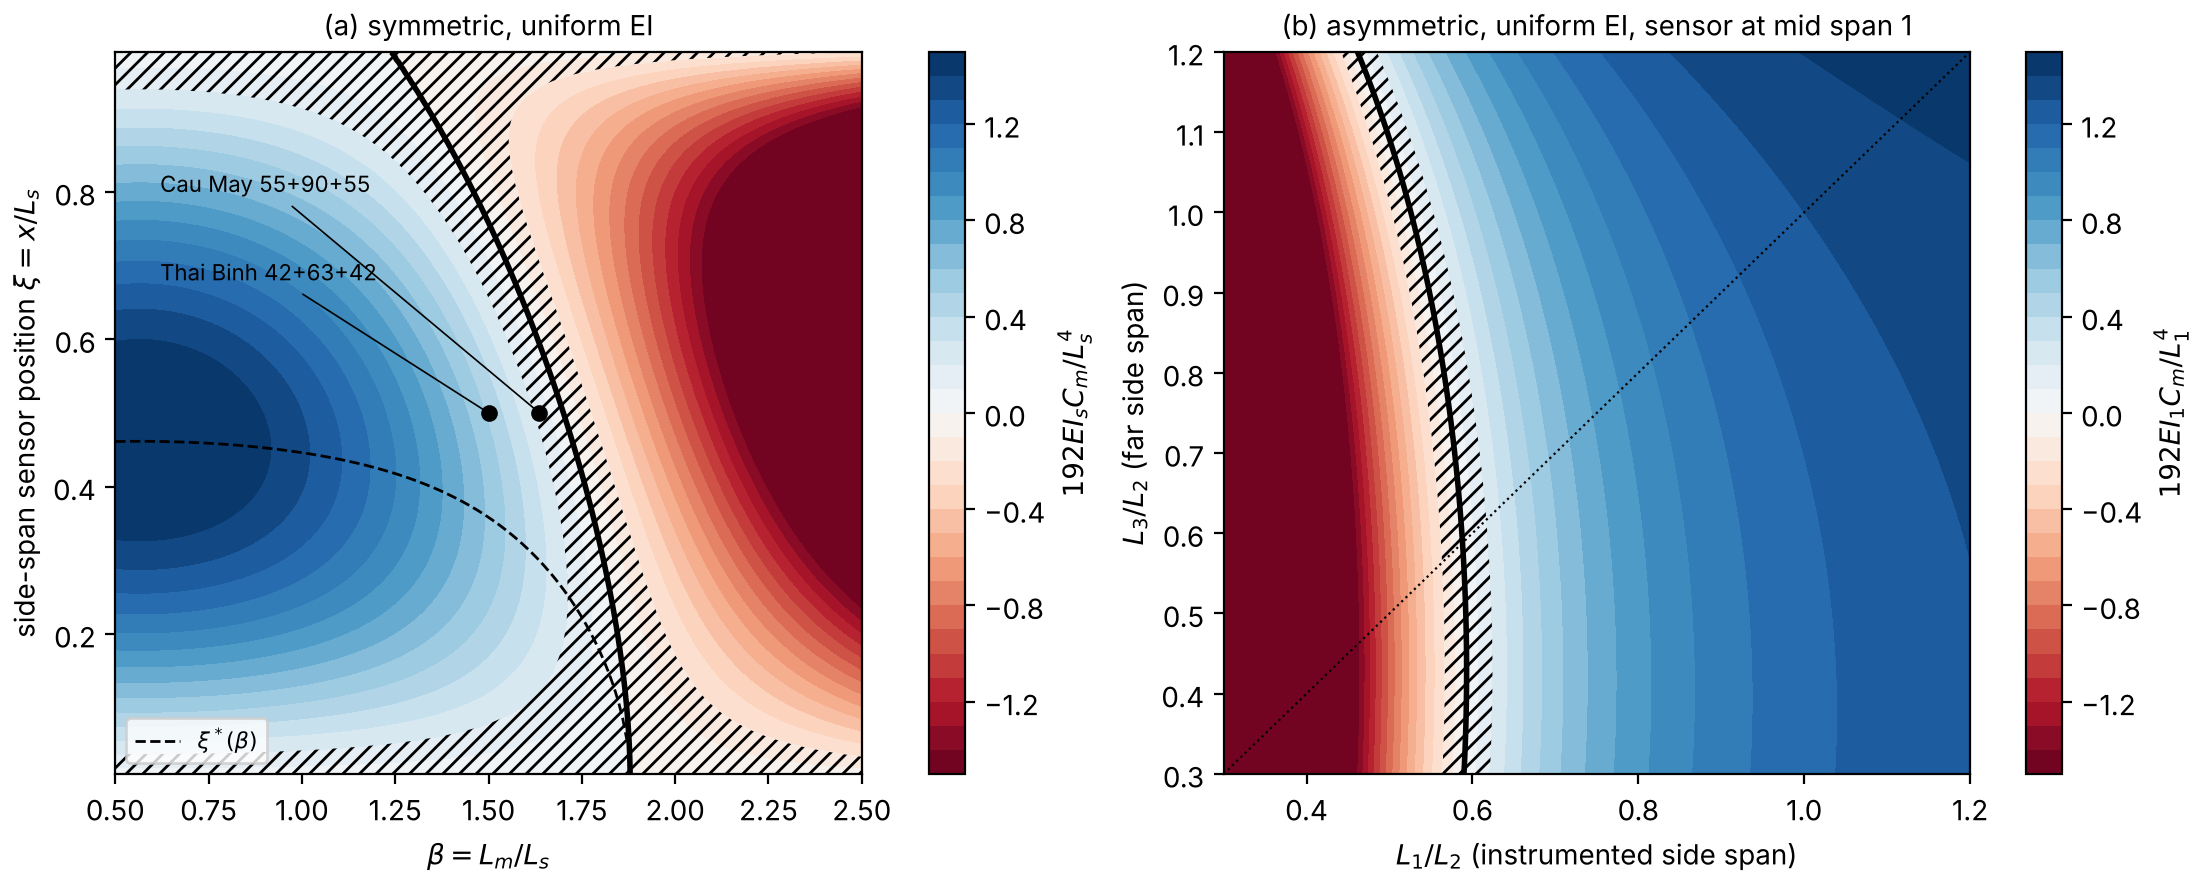
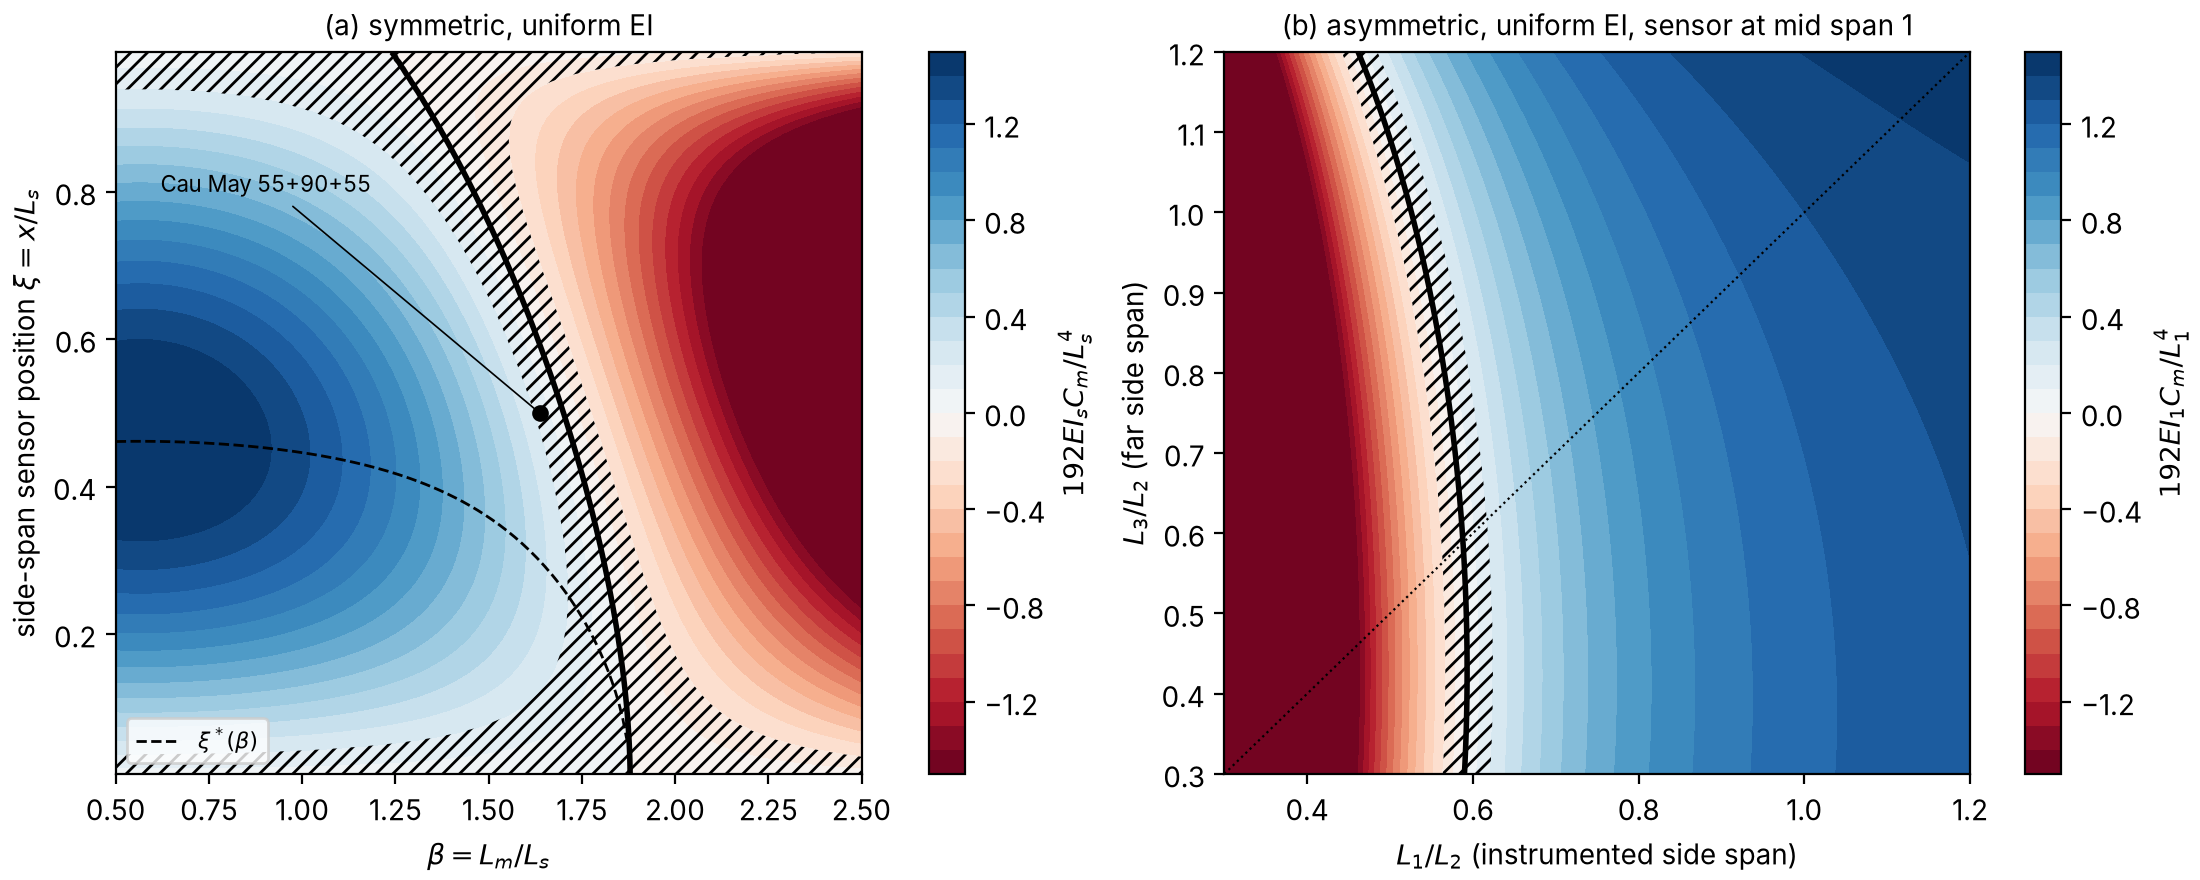
WIP: scripts.zip cleanup in progress
Claude-Session: https://claude.ai/code/session_01B18ehnY6ZEjmwZNzrTta57

diff --git a/code/analysis/verify_3span.py b/code/analysis/verify_3span.py
@@ -64,7 +64,7 @@ for beta, rho in [(1.0, 1.0), (1.5, 1.0), (90 / 55, 1.0), (1.2, 2.0), (1.8, 0.7)
 
 print("\n Dimensional bridges (uniform EI = 1, metres; 12 elements/span: prismatic Hermite"
       " elements are nodally exact, finer meshes only add round-off):")
-for name, spans in [("Cau May 55+90+55", [55, 90, 55]), ("Thai Binh 42+63+42", [42, 63, 42])]:
+for name, spans in [("Cau May 55+90+55", [55, 90, 55])]:
     b = spans[1] / spans[0]
     check(f"{name} mid side", th.side_norm(0.5, b), fe_norm(spans, spans[0] / 2, spans[0], 1.0))
     check(f"{name} mid main", th.main_norm(0.5, b),
@@ -116,9 +116,9 @@ contrib_main = [sp.lambdify((th.eta, b_, r_), th.main_contrib(j)) for j in range
 print(f"  {'case':34s} {'C1':>10s} {'C2':>10s} {'C3':>10s} {'sum':>10s} {'neg/pos':>9s}")
 for name, beta, rho, where, pos in [
         ("two-span-like beta=1 side", 1.0, 1.0, "side", 0.5),
-        ("Thai Binh side (beta=1.5)", 1.5, 1.0, "side", 0.5),
+        ("side (beta=1.5)", 1.5, 1.0, "side", 0.5),
         ("Cau May side (beta=1.636)", 90 / 55, 1.0, "side", 0.5),
-        ("Thai Binh main (beta=1.5)", 1.5, 1.0, "main", 0.5),
+        ("main (beta=1.5)", 1.5, 1.0, "main", 0.5),
         ("Cau May main (beta=1.636)", 90 / 55, 1.0, "main", 0.5)]:
     spans, EIs = [1, beta, 1], [1, rho, 1]
     cs, fes = [], []
@@ -291,14 +291,12 @@ def haunch_table(name, spans, ratios, lc_list, hm=1.0):
 
 rows_cm = haunch_table("Cau May (h 2.4 m mid-span, 5.4 m pier)", [55, 90, 55],
                        [5.4 / 2.4], [None, 55.0, 30.0], hm=2.4)
-rows_tb = haunch_table("Thai Binh (depths NOT available: parametrised by h_pier/h_mid)",
-                       [42, 63, 42], [1.0, 1.5, 2.0, 2.25, 2.5, 3.0], [None])
 
 os.makedirs(os.path.join(os.path.dirname(os.path.abspath(__file__)), "data"), exist_ok=True)
 with open(os.path.join(os.path.dirname(os.path.abspath(__file__)), "data", "haunch_3span.csv"), "w") as fh:
     fh.write("bridge,h_ratio,n,Lc_side_m,side_mid,shift_vs_uniform,side_negpos,xi_star,"
              "Cm_xi_star,main_mid,main_negpos\n")
-    for nm, rows in [("CauMay", rows_cm), ("ThaiBinh", rows_tb)]:
+    for nm, rows in [("CauMay", rows_cm)]:
         for r in rows:
             fh.write(nm + "," + ",".join(f"{v:.6f}" for v in r) + "\n")
 

diff --git a/code/fieldplan/fieldplan_compute.py b/code/fieldplan/fieldplan_compute.py
@@ -48,9 +48,9 @@ g = 9.81
 # Axle loads are ILLUSTRATIVE splits of the gross mass; the real values come
 # from the per-axle weighbridge tickets on the test day.
 TRUCKS = {
-    # T1 = same type as the 2020 acceptance trucks (report Hinh 2.1): 5+10+10 t
+    # T1 = same type as the 2020 acceptance trucks (report Fig. 2.1): 5+10+10 t
     "T1 (3 truc, 25 t)": dict(P=np.array([5.0, 10.0, 10.0]), a=np.array([0.0, 3.60, 4.95])),
-    # T2 = 4-axle (Thai Binh type 1.80+3.00+1.35 m) loaded to ~25 t: same total, other axles
+    # T2 = 4-axle (spacings 1.80+3.00+1.35 m) loaded to ~25 t: same total, other axles
     "T2 (4 truc, 25 t)": dict(P=np.array([5.5, 5.5, 7.0, 7.0]), a=np.array([0.0, 1.80, 4.80, 6.15])),
     # T3 = same 4-axle truck fully loaded, ~30 t: different total
     "T3 (4 truc, 30 t)": dict(P=np.array([6.0, 6.0, 9.0, 9.0]), a=np.array([0.0, 1.80, 4.80, 6.15])),
@@ -158,7 +158,7 @@ P1, P2 = 55.0, 145.0
 A_MID, A_PIER = 7.233, 14.437                 # m2, LRFR p.5
 ZC_MID, ZC_PIER = 1.572, 3.053                # soffit to centroid, LRFR p.5
 RHO = 2.55                                    # t/m3 (25 kN/m3) [assumption]
-M_SDL = 3.0                                   # t/m superimposed dead load [ASSUMPTION, NEED VALUE]
+M_SDL = 3.0                                   # t/m superimposed dead load [assumption, not given in the test report]
 
 
 def h_cm(x):

diff --git a/code/analysis/cm_3span_theory.py b/code/analysis/cm_3span_theory.py
@@ -189,7 +189,7 @@ def make_maps():
     xo = np.array([xi_opt(b) for b in B])
     ok = xo[:, 1] > 0                                 # optimum only where C_m > 0
     ax[0].plot(B[ok], xo[ok, 0], "k--", lw=1, label=r"$\xi^*(\beta)$")
-    for nm, b in [("Cau May 55+90+55", 90 / 55), ("Thai Binh 42+63+42", 63 / 42)]:
+    for nm, b in [("Cau May 55+90+55", 90 / 55)]:
         ax[0].plot(b, 0.5, "ko", ms=5)
         ax[0].annotate(nm, (b, 0.5), (0.62, 0.80) if b > 1.6 else (0.62, 0.68),
                        fontsize=8, arrowprops=dict(arrowstyle="-", lw=0.6))
@@ -254,7 +254,7 @@ if __name__ == "__main__":
           " check:", sp.N((2 * sp.cos(sp.pi / 9))**3 - 3 * 2 * sp.cos(sp.pi / 9) - 1, 5))
     nb = [r for r in sp.Poly(30 * b**3 - 69 * b - 16, b).nroots(n=15) if r.is_real and r > 0]
     print("Near-blind edge |N|=0.2, mid side, uniform EI: mu = 23/15 <=> 30 b^3 - 69 b - 16 = 0 ->", nb)
-    for nm, bb in [("Cau May", sp.Rational(90, 55)), ("Thai Binh", sp.Rational(63, 42))]:
+    for nm, bb in [("Cau May", sp.Rational(90, 55))]:
         print(f"  {nm}: beta={float(bb):.6f}  rho_crit(mid side)={float(3*bb*(2*bb**2-5)/4):.6f}"
               f"  neg/pos(mid side, uniform)={float(6*bb**3/(15*bb+4)):.6f}")
     print("\nOptimal side-span sensor: d/dxi F = 0  <=>",

diff --git a/code/theory2/ident_fisher.py b/code/theory2/ident_fisher.py
@@ -18,7 +18,7 @@ from ident_static import KAPPA, K_FE
 
 SIG_STATIC = None          # taken from ident_static (total per-gauge sigma = tau_rec/2)
 SIG_F = 0.033              # sd of N6/N7/N8 measured frequencies (ident_freq.log)
-SIG_ROT = 0.03             # [NEED VALUE] tiltmeter, assumed 3 % of a ~1e-4 rad reading
+SIG_ROT = 0.03             # assumed tiltmeter accuracy, 3 % of a ~1e-4 rad reading
 
 
 def responses(m, k, sch):
@@ -45,7 +45,7 @@ def main():
     FQ = np.load(os.path.join(LOGD, "ident_freq_curves.npz"))
     kap = FQ["kap"]
     lnf = {i: np.log(FQ["f_base"][:, i]) for i in range(3)}
-    log(f"sigmas: static per gauge {100*sig_s:.2f} % (tau_rec/2), frequency {100*SIG_F:.1f} %, rotation {100*SIG_ROT:.1f} % [NEED VALUE]")
+    log(f"sigmas: static per gauge {100*sig_s:.2f} % (tau_rec/2), frequency {100*SIG_F:.1f} %, rotation {100*SIG_ROT:.1f} % (assumed)")
     gl = np.log(np.array([0.889 / 1.2, 1.082]))
     sig_g_wide = (gl[1] - gl[0]) / np.sqrt(12)
     log(f"prior on ln gamma': uniform over [{gl[0]:.3f},{gl[1]:.3f}] (mass low..high, e_d 1.0..1.2) -> sd {sig_g_wide:.3f};"

diff --git a/code/theory2/ident_static.py b/code/theory2/ident_static.py
@@ -182,18 +182,6 @@ def main():
         log(f"{lab:8s}: pinned {min(pin):.3f}..{max(pin):.3f} (Lv44 {pin[1]:.3f}); fixed {min(fix):.3f}..{max(fix):.3f} "
             f"(Lv44 {fix[1]:.3f})")
 
-    # illustrative pier stiffness bracket (NOT sourced: pier drawings [NEED VALUE])
-    log("\n=== Illustrative pier rotational stiffness bracket (pier geometry [NEED VALUE]) ===")
-    Ep = 30e6
-    ks = []
-    for b in (6.0, 9.0):
-        for t in (1.8, 2.5):
-            for H in (8.0, 15.0):
-                for c in (1.0, 4.0):
-                    ks.append(c * Ep * b * t**3 / 12 / H)
-    log(f"k = c E_p b t^3/(12 H), E_p 30 GPa, b 6-9 m, t 1.8-2.5 m, H 8-15 m, c 1 (sway) - 4 (no sway, rigid base):"
-        f" k in [{min(ks):.2e}, {max(ks):.2e}] kNm/rad (foundation flexibility would lower it)")
-
     np.savez(os.path.join(LOGD, "ident_static_scan.npz"), kappa=KAPPA, tau_rec=tau_rec,
              **{f"{n}__{k}": v for n, s in scans.items() for k, v in s.items() if k != "kappa"})
 

diff --git a/code/theory2/ident_freq.py b/code/theory2/ident_freq.py
@@ -28,7 +28,7 @@ ED = (1.0, 1.2)            # E_dyn/E_static bracket (see doc, assumption D2)
 
 def main():
     log = Logger("ident_freq.log")
-    log("=== Measured vertical frequencies (CSV, PDF Bang 2.15) ===")
+    log("=== Measured vertical frequencies (CSV, acceptance-test report, Table 2.15) ===")
     log(", ".join(f"{k} {v:.2f} Hz" for k, v in F_MEAS.items()))
     log(f"main bridge N6/N7/N8: mean {F_MAIN.mean():.3f} Hz, sd {F_MAIN.std(ddof=1):.3f} Hz "
         f"({100*F_MAIN.std(ddof=1)/F_MAIN.mean():.1f} %), band [{F_MAIN.min():.2f}, {F_MAIN.max():.2f}]")

diff --git a/code/theory2/ident_core.py b/code/theory2/ident_core.py
@@ -67,8 +67,8 @@ MASS_CASES = {
 }
 RHO_AS = 2.25        # t/m3 bituminous wearing surface (AASHTO LRFD Tab. 3.5.1-1)
 W_CARR = 11.0        # m, 12.0 m deck minus 2 x 0.5 m kerbs (INVENTORY sec.1)
-L_DIAPH_PIER = 3.0   # m, [NEED VALUE] assumed diaphragm length over T6/T7
-L_DIAPH_END = 2.0    # m, [NEED VALUE] assumed end-diaphragm length at T5/T8
+L_DIAPH_PIER = 3.0   # m, assumed diaphragm length over T6/T7 (not given in the test report)
+L_DIAPH_END = 2.0    # m, assumed end-diaphragm length at T5/T8 (not given in the test report)
 
 
 def area_law(h, law):

diff --git a/code/analysis/wp4_dynamic_records.py b/code/analysis/wp4_dynamic_records.py
@@ -3,7 +3,7 @@ quasi-static integral.  Run from the repo root:  python3 code/analysis/wp4_dynam
 
 Sign convention: records are deflection y (mm, downward negative).  Everything below is
 done on s = -y (downward positive), so the integral of a crossing is positive.
-Truck weight, speed, lane and girder for these runs are NOT known [NEED VALUE]; nothing here
+Truck weight, speed, lane and girder for these runs are NOT known (not reported); nothing here
 uses them except in the clearly flagged "illustrative reference" columns.
 """
 import logging

diff --git a/code/analysis/cm_multispan.py b/code/analysis/cm_multispan.py
@@ -180,8 +180,6 @@ if __name__ == "__main__":
         "lab 2x2.5 m, mid span 1": ([2.5, 2.5], 1.25),
         "Cau May 55+90+55, mid side span": ([55, 90, 55], 27.5),
         "Cau May 55+90+55, mid main span": ([55, 90, 55], 100.0),
-        "Thai Binh 42+63+42, mid side span": ([42, 63, 42], 21.0),
-        "Thai Binh 42+63+42, mid main span": ([42, 63, 42], 73.5),
     }
     for name, (spans, xm) in cases.items():
         c, x, w = Cm(spans, xm)
